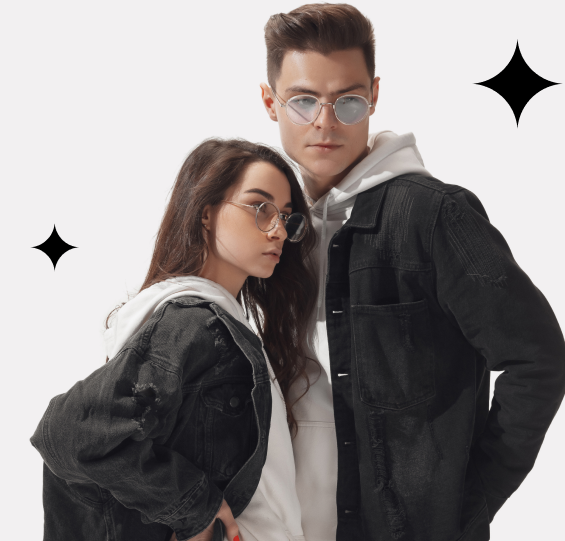
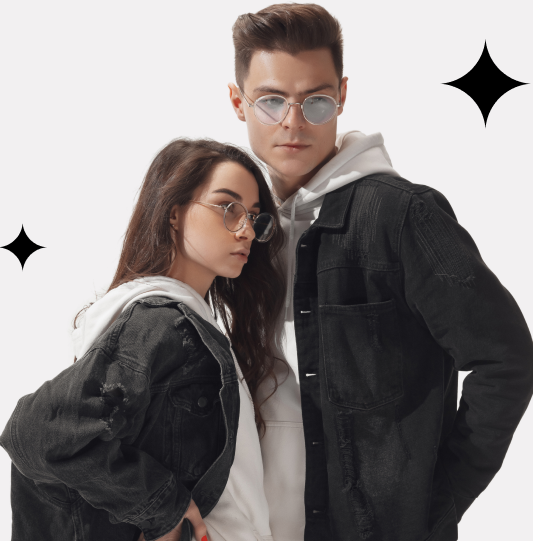
ajustando a foto do hero e os cards do carousel para telas pequenas

diff --git a/JavaScript/testimonials.js b/JavaScript/testimonials.js
@@ -1,63 +1,34 @@
 document.addEventListener('DOMContentLoaded', () => {
-    // Adiciona um ouvinte de evento para executar o código quando o DOM estiver totalmente carregado
   
     const carousel = document.querySelector('.carousel');
-    // Seleciona o elemento com a classe 'carousel' e o armazena na variável 'carousel'
-  
     const controls = document.querySelectorAll('.carousel-control');
-    // Seleciona todos os elementos com a classe 'carousel-control' (setas de navegação) e os armazena na variável 'controls'
-  
     const cards = Array.from(carousel.querySelectorAll('.cartao'));
-    // Seleciona todos os elementos com a classe 'cartao' dentro do 'carousel' e os converte para um array, armazenando na variável 'cards'
-  
-    const cardWidth = cards[0].offsetWidth + 50;
-    // Obtém a largura do primeiro cartão e adiciona 50 pixels para considerar a margem ou espaçamento adicional
-  
-    const numCards = cards.length;
-    // Obtém o número total de cartões e armazena na variável 'numCards' (não utilizado posteriormente, mas pode ser útil)
-  
+    const cardWidth = cards[0].offsetWidth + 20;
     let scrollAmount = 0;
-    // Inicializa a variável 'scrollAmount' que rastreará a posição de rolagem do carrossel
-  
-    // Duplicar o conteúdo para criar efeito contínuo
     carousel.innerHTML += carousel.innerHTML;
-    // Duplica o conteúdo HTML dentro do carrossel para permitir um efeito de rotação contínua
-  
+
     function updateScrollPosition() {
-      // Função para atualizar a posição de rolagem do carrossel
       carousel.scrollLeft = scrollAmount;
-      // Define a posição horizontal da rolagem do carrossel para o valor de 'scrollAmount'
     }
   
     controls.forEach(control => {
-      // Itera sobre todos os controles (setas de navegação)
       control.addEventListener('click', () => {
-        // Adiciona um ouvinte de evento para o clique em cada controle
         const isLeft = control.classList.contains('left');
-        // Verifica se o controle tem a classe 'left', indicando que é a seta para a esquerda
   
         if (isLeft) {
-          // Se o controle for para a esquerda
           scrollAmount -= cardWidth;
-          // Decrementa o valor de 'scrollAmount' pela largura do cartão
           if (scrollAmount < 0) {
-            // Se o valor de 'scrollAmount' for menor que 0 (significa que ultrapassou o início)
             scrollAmount = carousel.scrollWidth / 2 - cardWidth;
-            // Ajusta 'scrollAmount' para a posição final da primeira metade do conteúdo duplicado
           }
         } else {
-          // Se o controle for para a direita
           scrollAmount += cardWidth;
-          // Incrementa o valor de 'scrollAmount' pela largura do cartão
           if (scrollAmount >= carousel.scrollWidth / 2) {
-            // Se o valor de 'scrollAmount' for maior ou igual à metade da largura total do carrossel
             scrollAmount = 0;
-            // Ajusta 'scrollAmount' para 0 (reinicia a rolagem para o início da primeira metade do conteúdo duplicado)
           }
         }
   
         updateScrollPosition();
-        // Chama a função para atualizar a posição de rolagem com o novo valor de 'scrollAmount'
+
       });
     });
   });

diff --git a/css/testimonials.css b/css/testimonials.css
@@ -156,7 +156,7 @@
 /* Media Query para telas menores */
 @media (max-width: 768px) {
   .depoimentos {
-    padding-bottom: 80px; /* Ajusta o padding para se adequar ao novo layout */
+    padding-bottom: 150px; /* Ajusta o padding para se adequar ao novo layout */
   }
 
   .testimonials {
@@ -182,12 +182,12 @@
     align-items: center; /* Centraliza os cartões horizontalmente */
     overflow: hidden; /* Oculta o conteúdo que ultrapassa o contêiner */
     width: 100%; /* Largura total */
-    padding: 0; /* Remove o padding */
     margin-top: 20px; /* Ajusta a margem superior */
   }
 
   /* Estilo para ocultar os outros cartões */
   .cartao {
+    width: 430px;
     display: block; /* Exibe o cartao-1 */
     flex: 0 0 100%; /* Cada cartão ocupa 100% da largura do contêiner */
     margin-bottom: 20px; /* Espaço abaixo de cada cartão */
@@ -196,7 +196,6 @@
     padding: 20px; /* Adiciona padding interno */
     text-align: left; /* Alinha o conteúdo à esquerda */
     background-color: white; /* Cor de fundo branca */
-    box-shadow: 0 2px 5px rgba(0, 0, 0, 0.1); /* Adiciona sombra leve para destaque */
   }
 
 }

diff --git a/css/subscribe.css b/css/subscribe.css
@@ -112,7 +112,8 @@
     flex-direction: column; /* Empilha título e conteúdo verticalmente */
     align-items: center; /* Centraliza o conteúdo horizontalmente */
     padding: 20px; /* Ajusta o padding */
-    margin-top: -50px; /* Ajusta a margem superior para sobreposição */
+    margin-top: -145px; /* Ajusta a margem superior para sobreposição */
+    width: 430px;
   }
 
   .subscribe h1 {
